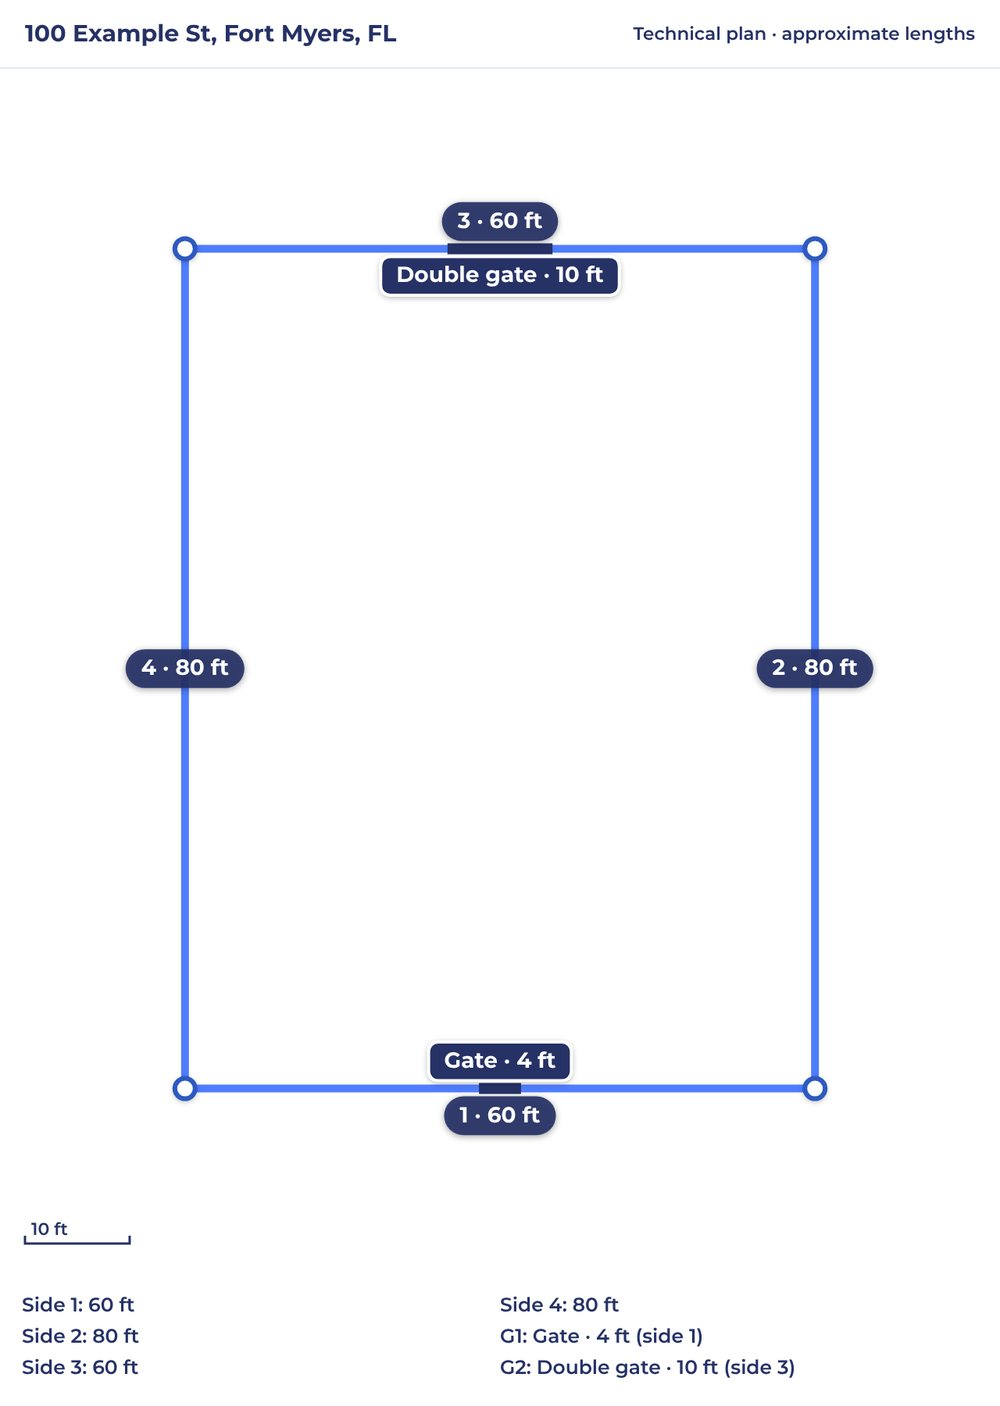
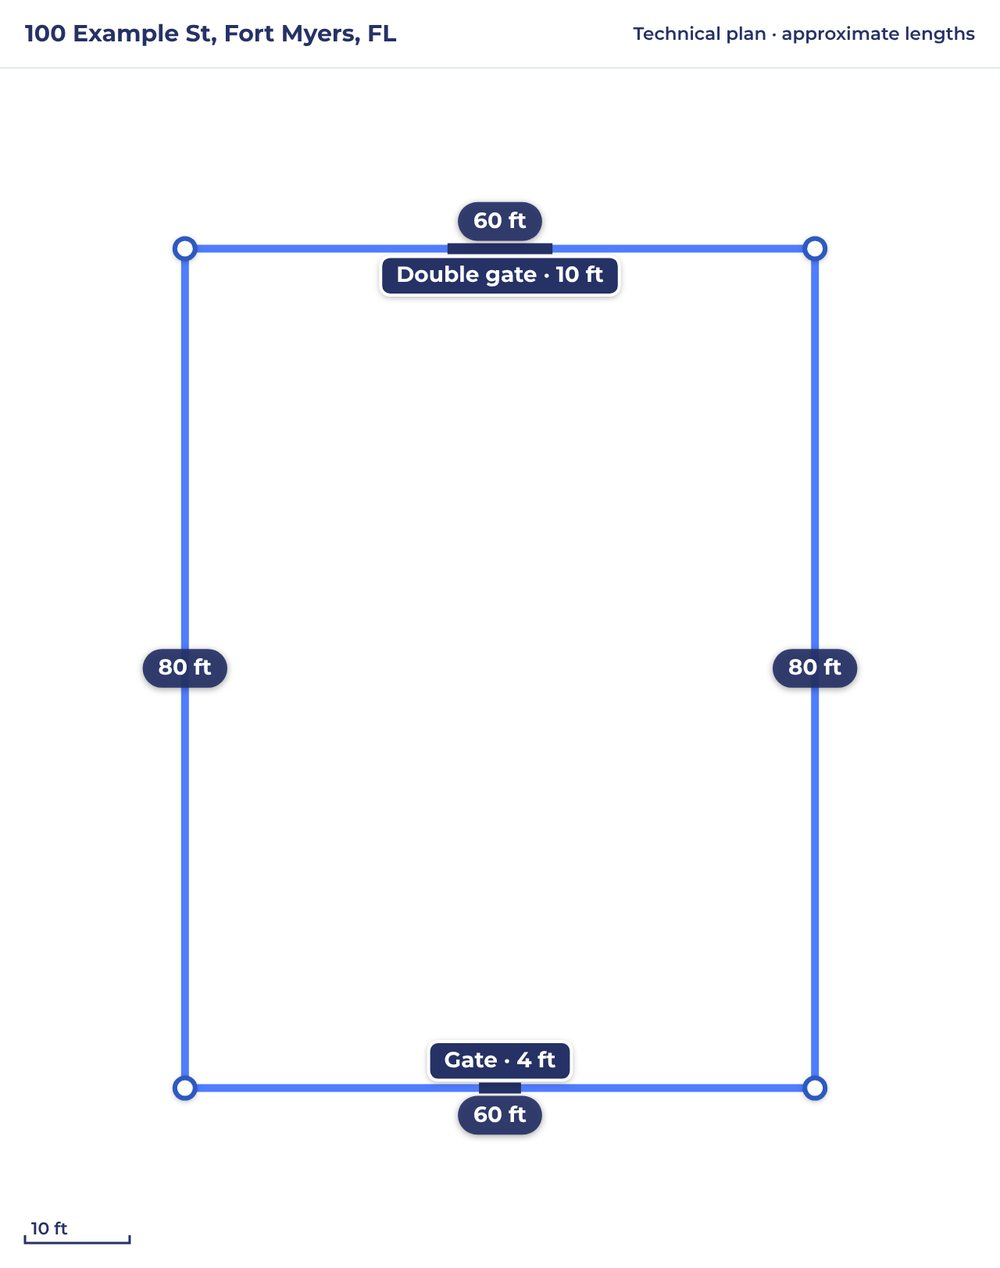
Property map: length labels show the length only, on every background
The Plan background and the technical plan wrote the side number in front of each
length (4 · 39 ft). Lengths now read the same everywhere: 39 ft, on the satellite
image, on Plan and on the exported images. Gate labels are unchanged.

Side numbers and gate names stay in the Sides panel and in the data. On the
drawing a number only stands in for a label that has no room, and only then do
the images carry a legend; the plan no longer lists every side under the drawing.

Placement, collision handling and geometry are untouched.

Claude-Session: https://claude.ai/code/session_01XYXNgBUtQ7oA2MEjZ84K7J

diff --git a/resources/js/property-map/quote-image.js b/resources/js/property-map/quote-image.js
@@ -1,7 +1,6 @@
 /*
  * Images of the drawing: the satellite photo with the fence (what the quote sends to
- * email, Odoo and S3), the technical plan (same drawing on white, with every length
- * listed) and both together.
+ * email, Odoo and S3), the technical plan (same drawing on white) and both together.
  *
  * The server only returns the plain photo and the frame it asked Google for. The whole
  * fence (sides, walls, gates, corners, connectors, labels) is drawn here with the shared
@@ -157,16 +156,16 @@ function drawLabel(context, text, style, box, scale) {
 
 /**
  * Draws the fence and its labels. Returns what the legend must explain: the labels that
- * had to be shortened, or every label when `fullLegend` is set.
+ * had to be shortened to a reference for lack of room (none, on most drawings).
  */
-export function drawScene(context, { project, toPixels, scale, theme, bounds, exclusions = [], numbered = false, fullLegend = false }) {
+export function drawScene(context, { project, toPixels, scale, theme, bounds, exclusions = [] }) {
     const { vertices, runs } = project;
     const points = vertices.map(toPixels);
     const sides = runs
         .map((run, index) => ({ run, index, key: `side:${index}`, a: points[run.from], b: points[run.to] }))
         .filter(({ a, b }) => a && b);
     const sideOf = new Map(sides.map((side) => [side.index, side]));
-    const described = describeLabels(runs, { numbered });
+    const described = describeLabels(runs);
 
     const gates = described.gates
         .filter((item) => sideOf.has(item.runIndex))
@@ -247,7 +246,7 @@ export function drawScene(context, { project, toPixels, scale, theme, bounds, ex
         if (placement.box) {
             drawLabel(context, item[placement.level], style, placement.box, scale);
         }
-        if (fullLegend || placement.level !== 'full') {
+        if (placement.level !== 'full') {
             legend.push(item.legend);
         }
     }
@@ -377,9 +376,9 @@ function drawScaleBar(context, project, toPixels, area, scale) {
 }
 
 /**
- * The technical plan: the same drawing on white, to scale, every side numbered like the
- * Sides panel and every length and gate listed below. Needs nothing from Google, so it
- * is also what the quote sends when the satellite photo is not available.
+ * The technical plan: the same drawing and the same labels on white, to scale, with a
+ * scale bar. Needs nothing from Google, so it is also what the quote sends when the
+ * satellite photo is not available.
  */
 export async function renderPlanCanvas({ project }) {
     await ready();
@@ -427,8 +426,6 @@ export async function renderPlanCanvas({ project }) {
             theme: THEMES.plan,
             bounds: area,
             exclusions: [scaleBar],
-            numbered: true,
-            fullLegend: true,
         }));
     }
     const result = withLegend(canvas, legend, scale);

diff --git a/tests/browser/images.spec.js b/tests/browser/images.spec.js
@@ -48,13 +48,18 @@ for (const name of names) {
         const image = await renderImage(page, 'plan', snapshot);
         const { scene, legend } = image.layout;
         expect(checkPlacement(scene)).toEqual([]);
-        // The plan lists every side and every gate under the drawing.
-        const gates = snapshot.project.runs.reduce((sum, run) => sum + run.gates.length, 0);
-        expect(legend).toHaveLength(snapshot.project.runs.length + gates);
-        expect(legend[0]).toMatch(/^Side 1: /);
-        // Sides carry their number, the one the Sides panel uses.
-        for (const label of scene.labels.filter((item) => item.kind === 'side' && item.box)) {
-            expect(label.text).toMatch(/^\d+( · |$)/);
+        // Same wording as the satellite image: a length never shows its side's number.
+        for (const label of scene.labels.filter((item) => item.kind === 'side' && item.level === 'full')) {
+            expect(label.text).toMatch(/^\d+ ft( · wall)?( \*)?$/);
+        }
+        for (const label of scene.labels.filter((item) => item.kind === 'gate' && item.level === 'full')) {
+            expect(label.text).toMatch(/^(Gate|Double gate)( \w+)? · \d+ ft$/);
+        }
+        // A legend appears only for labels that had to become a reference, one line each.
+        const shortened = scene.labels.filter((item) => item.level !== 'full');
+        expect(legend).toHaveLength(shortened.length);
+        for (const label of shortened.filter((item) => item.box)) {
+            expect(label.text).toMatch(/^(\d+|G\d+( · \d+ ft)?)$/);
         }
     });
 }
@@ -109,13 +114,14 @@ test('the combined image is the photo above the plan', async ({ page }) => {
     expect(combined.height).toBe(satellite.height + plan.height);
 });
 
-test('a length typed by hand is marked and the measured one is kept in the plan', async ({ page }) => {
+test('a length typed by hand is marked the same way on the photo and on the plan', async ({ page }) => {
     const snapshot = await fakeSnapshot(page, 'H-wall-and-adjusted');
     const satellite = await renderImage(page, 'satellite', snapshot);
     expect(satellite.layout.scene.labels.map((label) => label.text)).toContain('52 ft *');
     expect(satellite.layout.scene.labels.map((label) => label.text)).toContain('40 ft · wall');
     const plan = await renderImage(page, 'plan', snapshot);
-    expect(plan.layout.legend).toContain('Side 3: 52 ft * (measured 50 ft)');
+    expect(plan.layout.scene.labels.map((label) => label.text)).toContain('52 ft *');
+    expect(plan.layout.legend).toEqual([]);
 });
 
 // Evidence for people: set WFS_EVIDENCE_DIR to keep the pictures.

diff --git a/tests/browser/map-labels.spec.js b/tests/browser/map-labels.spec.js
@@ -104,7 +104,7 @@ test('no markers, lines or listeners pile up after many changes', async ({ page 
     expect(await listeners()).toEqual(listenersBefore);
 });
 
-test('Plan shows the same drawing on white, numbers the sides, and changes nothing in the project', async ({ page }) => {
+test('Plan shows the same drawing and the same labels on white, and changes nothing in the project', async ({ page }) => {
     await loadDrawing(page, SCENARIOS['A-rectangle-two-gates'], 21);
     const project = await page.evaluate(() => JSON.stringify(window.WFS.propertyMap.getProject()));
     const satellite = await readScene(page);
@@ -115,7 +115,8 @@ test('Plan shows the same drawing on white, numbers the sides, and changes nothi
     await expect(page.locator('[data-pm-action="bg-plan"]')).toHaveAttribute('aria-pressed', 'true');
     expect(await page.evaluate(() => window.__fakeMap.overlayMapTypes.getLength())).toBe(1);
     const plan = await readScene(page);
-    expect(plan.labels.filter((label) => label.kind === 'side').map((label) => label.text)).toEqual(['1 · 60 ft', '2 · 80 ft', '3 · 60 ft', '4 · 80 ft']);
+    // Same wording as on the satellite image: lengths carry no side number.
+    expect(plan.labels.map((label) => label.text)).toEqual(satellite.labels.map((label) => label.text));
     expect(checkPlacement(plan, RULES)).toEqual([]);
     expect(plan.vertices).toEqual(satellite.vertices);
     expect(await page.evaluate(() => JSON.stringify(window.WFS.propertyMap.getProject()))).toBe(project);

diff --git a/resources/js/property-map/labels.js b/resources/js/property-map/labels.js
@@ -6,6 +6,9 @@
  *   full     "42 ft"            "Gate · 4 ft"
  *   compact                     "G1 · 4 ft"
  *   ref      "3"                "G1"            (the rest is in the panel or the legend)
+ *
+ * A length never carries its side's number: the number only stands in for a label that
+ * has no room, on the map, on the plan and on the images alike.
  */
 import { gateLabel } from './gates.js';
 
@@ -15,11 +18,8 @@ export function sideText(run) {
     return `${feet} ft${run.is_existing_wall ? ' · wall' : ''}`;
 }
 
-/**
- * @param {object[]} runs  runs of the project (store.runs() or project.runs)
- * @param {{numbered?: boolean}} [options]  numbered: every side label carries its number
- */
-export function describeLabels(runs, { numbered = false } = {}) {
+// runs: the runs of the project (store.runs() or project.runs).
+export function describeLabels(runs) {
     const sides = [];
     const gates = [];
     runs.forEach((run, index) => {
@@ -32,7 +32,7 @@ export function describeLabels(runs, { numbered = false } = {}) {
             id: String(number),
             adjusted,
             wall: Boolean(run.is_existing_wall),
-            full: numbered ? `${number} · ${text}` : text,
+            full: text,
             ref: String(number),
             title: `Side ${number}: ${text}${adjusted ? ` (adjusted by hand, measured ${run.calc_ft} ft)` : ''}`,
             legend: `Side ${number}: ${text}${adjusted ? ` * (measured ${run.calc_ft} ft)` : ''}`,

diff --git a/tests/js/unit/label-layout.test.js b/tests/js/unit/label-layout.test.js
@@ -6,8 +6,8 @@ import { buildScene, placedScene } from '../support/scene.js';
 
 const ZOOMS = [18, 19, 20, 21];
 
-function run(project, zoom, options) {
-    const scene = buildScene(project, zoom, options);
+function run(project, zoom) {
+    const scene = buildScene(project, zoom);
     const placements = layoutLabels(scene);
     return { scene, placements, placed: placedScene(scene, placements) };
 }
@@ -166,7 +166,7 @@ describe('geometric invariants on random drawings', () => {
             const project = randomProject(seed);
             let previous = null;
             for (const zoom of [18, 19.5, 20, 20.5, 21]) {
-                const scene = buildScene(project, zoom, { numbered: seed % 2 === 0 });
+                const scene = buildScene(project, zoom);
                 const placements = layoutLabels({ ...scene, previous });
                 previous = rememberLayout(placements);
                 expect(checkPlacement(placedScene(scene, placements)), `zoom ${zoom}`).toEqual([]);

diff --git a/tests/js/unit/labels.test.js b/tests/js/unit/labels.test.js
@@ -17,8 +17,10 @@ describe('label texts', () => {
     });
 
     it('says in the legend what a short label stands for', () => {
-        const { sides, gates } = describeLabels(SCENARIOS['H-wall-and-adjusted'].runs, { numbered: true });
-        expect(sides.map((side) => side.full)).toEqual(['1 · 50 ft', '2 · 40 ft · wall', '3 · 52 ft', '4 · 40 ft']);
+        const { sides, gates } = describeLabels(SCENARIOS['H-wall-and-adjusted'].runs);
+        // The length itself never shows the side's number, on any background.
+        expect(sides.map((side) => side.full)).toEqual(['50 ft', '40 ft · wall', '52 ft', '40 ft']);
+        expect(sides.map((side) => side.ref)).toEqual(['1', '2', '3', '4']);
         expect(sides[2].legend).toBe('Side 3: 52 ft * (measured 50 ft)');
         expect(gates[0].legend).toBe('G1: Double gate · 8 ft (side 3)');
     });

diff --git a/tests/js/support/scene.js b/tests/js/support/scene.js
@@ -10,10 +10,10 @@ export const estimateSize = (text, round = false) => ({
     height: 24,
 });
 
-export function buildScene(project, zoom, { numbered = false } = {}) {
+export function buildScene(project, zoom) {
     const points = project.vertices.map((vertex) => worldPoint(vertex, zoom));
     const segments = project.runs.map((run, index) => ({ key: `side:${index}`, a: points[run.from], b: points[run.to] }));
-    const described = describeLabels(project.runs, { numbered });
+    const described = describeLabels(project.runs);
     const gates = described.gates.map((item) => {
         const { a, b } = segments[item.runIndex];
         const span = gateSpan(item.run, item.gate);

diff --git a/resources/js/property-map/drawing.js b/resources/js/property-map/drawing.js
@@ -381,7 +381,7 @@ export function mountDrawing({ map, store, mode, background, libs, onRunFocus, n
         const runs = store.runs();
         const drawing = mode.isDrawing();
         const { selectedRun, vertices } = store.state;
-        const described = describeLabels(runs, { numbered: isPlan() });
+        const described = describeLabels(runs);
         const toWorld = (point) => worldPoint(point, zoom);
         const at = (a, b, t) => ({ x: a.x + (b.x - a.x) * t, y: a.y + (b.y - a.y) * t });
 

diff --git a/docs/property-map-rendering/REPORT.md b/docs/property-map-rendering/REPORT.md
@@ -43,7 +43,7 @@ Google. Lo que falta comprobar con Google real está en
 | Etiquetas sobre esquinas, puertas y otros lados | Solo se comparaba etiqueta contra etiqueta | Esquinas, aberturas de puerta, lados y conectores son obstáculos |
 | Conectores sobre etiquetas | Se dibujaban en el mismo recorrido que las etiquetas | Se dibujan todos antes y no pueden cruzar una etiqueta ni otro lado |
 | Etiquetas de puerta demasiado grandes | Texto completo siempre | Si no hay sitio: `G1 · 4 ft`, luego `G1`; el nombre aparece en el panel |
-| Sin identificadores | "Side N" solo existía en el panel | Lados 1, 2, 3… y puertas G1, G2… iguales en mapa, panel, plano y leyenda |
+| Sin identificadores | "Side N" solo existía en el panel | Lados 1, 2, 3… y puertas G1, G2… en el panel. En el dibujo solo aparecen como referencia cuando una etiqueta no cabe, junto con una leyenda en las imágenes |
 | Las etiquetas no se reorganizaban con el zoom | No había nada que lo hiciera | Se recolocan al cambiar el dibujo o el zoom (una vez por cuadro); al desplazar no |
 | Líneas desfasadas de sus esquinas en la foto | Google redondea los `path` a 1e-5° (~3,6 ft) | La foto se pide sin dibujo; todo se dibuja en el navegador |
 | Encuadre pobre | Foto fija de 640 × 640 a zoom entero con tope 20 | Imagen del tamaño y forma de la cerca, que ocupa ~72 % |
@@ -58,8 +58,11 @@ Google. Lo que falta comprobar con Google real está en
   Both**. En el panel, cada puerta muestra su nombre corto (G1, G2…).
 - **Imagen del quote:** sigue siendo la foto satelital, ahora encuadrada en la cerca. Si
   Google no entrega la foto, se envía el plano técnico.
-- **Plano técnico:** el mismo dibujo sobre blanco, a escala, con lados numerados, barra de
-  escala y la lista de todas las medidas y puertas.
+- **Plano técnico:** el mismo dibujo y las mismas etiquetas sobre blanco, a escala y con
+  barra de escala.
+- **Etiquetas de medidas:** muestran solo la longitud (`39 ft`), nunca el número del lado,
+  en Satellite, en Plan y en las imágenes. El número solo sustituye a una etiqueta que no
+  cabe; en ese caso la imagen lleva una leyenda. Las puertas conservan `Gate · 4 ft`.
 
 No cambia nada en el proyecto guardado, los cálculos de materiales, los precios, la base
 de datos ni la vista 3D.
